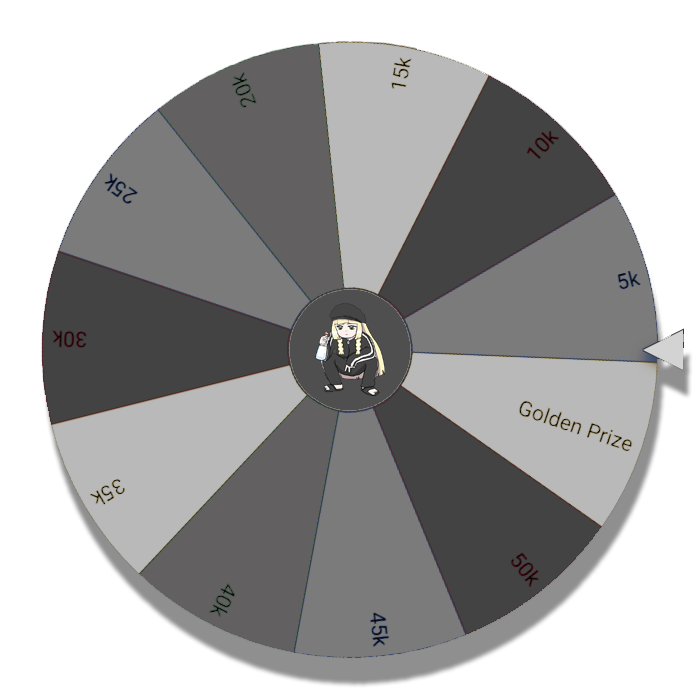
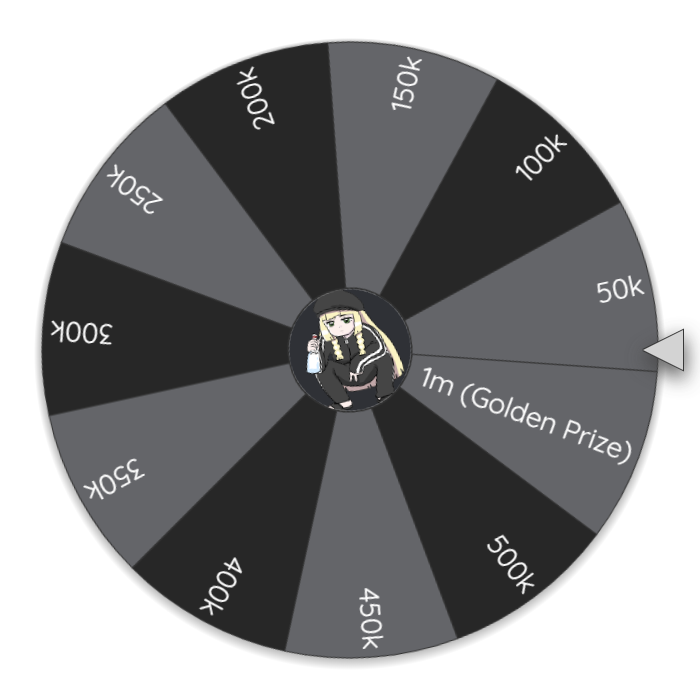
Updates

diff --git a/index.js b/index.js
@@ -1162,13 +1162,13 @@ bot.on("guildMemberUpdate", (oldMemberData, newMemberData) => {
                                             setTimeout(() => {
                                                 if(premiumSupporter)
                                                 {
-                                                    DatabaseFunctions.addUserTokens(newMemberData.user.id, 500000)
-                                                    newMemberData.user.send("Thank you for supporting Slav Bot! You have been given the ***" + roleName + "*** role and ***" + premiumRoleName + "***. Your name should be added on the *hall-of-gopniks* channel in Slav Support. If that is not the case, then please inform an Admin or the Owner on Slav Support. You have also been given 500k War Tokens for the World War and War Slave games and will receive this every week as long as you continue to be a patron.\n\nLeaving the support server means being unable to receive these benefits, you must join back to regain them.").catch(error => console.log("Send Error - " + error));
+                                                    DatabaseFunctions.addUserTokens(newMemberData.user.id, 5000000)
+                                                    newMemberData.user.send("Thank you for supporting Slav Bot! You have been given the ***" + roleName + "*** role and ***" + premiumRoleName + "***. Your name should be added on the *hall-of-gopniks* channel in Slav Support. If that is not the case, then please inform an Admin or the Owner on Slav Support. You have also been given 5 million War Tokens for the World War and War Slave games and will receive this every week as long as you continue to be a patron.\n\nLeaving the support server means being unable to receive these benefits, you must join back to regain them.").catch(error => console.log("Send Error - " + error));
                                                 }
                                                 else
                                                 {
-                                                    DatabaseFunctions.addUserTokens(newMemberData.user.id, 250000)
-                                                    newMemberData.user.send("Thank you for supporting Slav Bot! You have been given the ***" + roleName + "*** role. Your name should be added on the *hall-of-gopniks* channel in Slav Support. If that is not the case, then please inform an Admin or the Owner on Slav Support. You have also been given 250k War Tokens for the World War and War Slave games and will receive this every week as long as you continue to be a patron.\n\nLeaving the support server means being unable to receive these benefits, you must join back to regain them.").catch(error => console.log("Send Error - " + error));
+                                                    DatabaseFunctions.addUserTokens(newMemberData.user.id, 2500000)
+                                                    newMemberData.user.send("Thank you for supporting Slav Bot! You have been given the ***" + roleName + "*** role. Your name should be added on the *hall-of-gopniks* channel in Slav Support. If that is not the case, then please inform an Admin or the Owner on Slav Support. You have also been given 2.5 million War Tokens for the World War and War Slave games and will receive this every week as long as you continue to be a patron.\n\nLeaving the support server means being unable to receive these benefits, you must join back to regain them.").catch(error => console.log("Send Error - " + error));
                                                 }
                                             }, 500)
                                         }
@@ -1181,7 +1181,7 @@ bot.on("guildMemberUpdate", (oldMemberData, newMemberData) => {
                     }
                     else if(newPremiumSupporter && premiumSupporter)
                     {
-                        newMemberData.user.send("Thank you for upgrading! Your benefits for ***" + premiumRoleName + "*** tier have been added. You will now receive 500k war tokens every week.").catch(error => console.log("Send Error - " + error));
+                        newMemberData.user.send("Thank you for upgrading! Your benefits for ***" + premiumRoleName + "*** tier have been added. You will now receive 5 million war tokens every week.").catch(error => console.log("Send Error - " + error));
                     }
                 }
                 else if(newRoles[i].id == slavRole)
@@ -1238,9 +1238,9 @@ bot.on("guildMemberUpdate", (oldMemberData, newMemberData) => {
                                         }
                                         else
                                         {
-                                            DatabaseFunctions.addUserTokens(newMemberData.user.id, 100000)
+                                            DatabaseFunctions.addUserTokens(newMemberData.user.id, 1000000)
                                             setTimeout(() => {
-                                                newMemberData.user.send("Thank you for supporting Slav Bot! You have been given the ***" + roleName + "*** role. Your name should be added on the *hall-of-slavs* channel in Slav Support. You have also been given 100k War Tokens for the World War and War Slave games and will receive this every week as long as you continue to be a patron.\n\nLeaving the support server means being unable to receive these benefits, you must join back to regain them.").catch(error => console.log("Send Error - " + error));
+                                                newMemberData.user.send("Thank you for supporting Slav Bot! You have been given the ***" + roleName + "*** role. Your name should be added on the *hall-of-slavs* channel in Slav Support. You have also been given 1 million War Tokens for the World War and War Slave games and will receive this every week as long as you continue to be a patron.\n\nLeaving the support server means being unable to receive these benefits, you must join back to regain them.").catch(error => console.log("Send Error - " + error));
                                             }, 500)
                                         }
                                         
@@ -1265,7 +1265,7 @@ bot.on("guildMemberUpdate", (oldMemberData, newMemberData) => {
                     DatabaseFunctions.addUserTokens(newMemberData.user.id, 25000)
                     const roleName = newRoles[i].name
                     setTimeout(() => {
-                        newMemberData.user.send("Thank you for donation! You have been given the ***" + roleName + "*** role. You have been given 20k War Tokens.").catch(error => console.log("Send Error - " + error));
+                        newMemberData.user.send("Thank you for donation! You have been given the ***" + roleName + "*** role. You have been given 25k War Tokens.").catch(error => console.log("Send Error - " + error));
                     }, 500)
                 }
 
@@ -4013,25 +4013,25 @@ function paySupporters()
                             const today = new Date()
                             if(role.id == premiumRole)
                             {
-                                DatabaseFunctions.addUserTokens(member.id, 500000)
+                                DatabaseFunctions.addUserTokens(member.id, 5000000)
                                 setTimeout(() => {
-                                    member.send("You have been given your weekly payment of 500k War Tokens for the " + ordinalSuffix(today.getDate()) + " of " + monthNames[today.getMonth()] + " " + today.getFullYear() + ". Your next payment will be 7 days later. Thank you for supporting Slav Bot.").catch(error => console.log("Send Error - " + error));
+                                    member.send("You have been given your weekly payment of 5 million War Tokens for the " + ordinalSuffix(today.getDate()) + " of " + monthNames[today.getMonth()] + " " + today.getFullYear() + ". Your next payment will be 7 days later. Thank you for supporting Slav Bot.").catch(error => console.log("Send Error - " + error));
                                 }, 500)
                                 payed = true;
                             }
                             else if(role.id == gopnikRole)
                             {
-                                DatabaseFunctions.addUserTokens(member.id, 250000)
+                                DatabaseFunctions.addUserTokens(member.id, 2500000)
                                 setTimeout(() => {
-                                    member.send("You have been given your weekly payment of 250k War Tokens for the " + ordinalSuffix(today.getDate()) + " of " + monthNames[today.getMonth()] + " " + today.getFullYear() + ". Your next payment will be 7 days later. Thank you for supporting Slav Bot.").catch(error => console.log("Send Error - " + error));
+                                    member.send("You have been given your weekly payment of 2.5 million War Tokens for the " + ordinalSuffix(today.getDate()) + " of " + monthNames[today.getMonth()] + " " + today.getFullYear() + ". Your next payment will be 7 days later. Thank you for supporting Slav Bot.").catch(error => console.log("Send Error - " + error));
                                 }, 500)
                                 payed = true;
                             }
                             else if(role.id == slavRole)
                             {
-                                DatabaseFunctions.addUserTokens(member.id, 100000)
+                                DatabaseFunctions.addUserTokens(member.id, 1000000)
                                 setTimeout(() => {
-                                    member.send("You have been given your weekly payment of 100k War Tokens for the " + ordinalSuffix(today.getDate()) + " of " + monthNames[today.getMonth()] + " " + today.getFullYear() + ". Your next payment will be 7 days later. Thank you for supporting Slav Bot.").catch(error => console.log("Send Error - " + error));
+                                    member.send("You have been given your weekly payment of 1 million War Tokens for the " + ordinalSuffix(today.getDate()) + " of " + monthNames[today.getMonth()] + " " + today.getFullYear() + ". Your next payment will be 7 days later. Thank you for supporting Slav Bot.").catch(error => console.log("Send Error - " + error));
                                 }, 500)
                                 payed = true;
                             }

diff --git a/commands/games/dailyspin.js b/commands/games/dailyspin.js
@@ -138,49 +138,49 @@ class DailySpinCommand extends command.Command
                                             {
                                                 if(chance >= 0.975 && isPatron)
                                                 {
-                                                    prize = 75000
+                                                    prize = 1000000
                                                     goldenPrize = true;
                                                 }
                                                 else
                                                 {
-                                                    prize = 50000
+                                                    prize = 500000
                                                 }
                                             }
                                             else if(chance >= 0.925)
                                             {
-                                                prize = 45000
+                                                prize = 450000
                                             }
                                             else if(chance >= 0.875)
                                             {
-                                                prize = 40000
+                                                prize = 400000
                                             }
                                             else if(chance >= 0.85)
                                             {
-                                                prize = 35000
+                                                prize = 350000
                                             }
                                             else if(chance >= 0.825)
                                             {
-                                                prize = 30000
+                                                prize = 300000
                                             }
                                             else if(chance >= 0.8)
                                             {
-                                                prize = 25000
+                                                prize = 250000
                                             }
                                             else if(chance >= 0.775)
                                             {
-                                                prize = 20000
+                                                prize = 200000
                                             }
                                             else if(chance >= 0.6)
                                             {
-                                                prize = 15000
+                                                prize = 150000
                                             }
                                             else if(chance >= 0.2)
                                             {
-                                                prize = 10000
+                                                prize = 100000
                                             }
                                             else 
                                             {
-                                                prize = 5000
+                                                prize = 50000
                                             }
             
                                             IndexRef.addTokens(message.author.id, prize)
@@ -230,49 +230,49 @@ class DailySpinCommand extends command.Command
                                             {
                                                 if(chance >= 0.975 && isPatron)
                                                 {
-                                                    prize = 75000
+                                                    prize = 1000000
                                                     goldenPrize = true;
                                                 }
                                                 else
                                                 {
-                                                    prize = 50000
+                                                    prize = 500000
                                                 }
                                             }
                                             else if(chance >= 0.925)
                                             {
-                                                prize = 45000
+                                                prize = 450000
                                             }
                                             else if(chance >= 0.875)
                                             {
-                                                prize = 40000
+                                                prize = 400000
                                             }
                                             else if(chance >= 0.85)
                                             {
-                                                prize = 35000
+                                                prize = 350000
                                             }
                                             else if(chance >= 0.825)
                                             {
-                                                prize = 30000
+                                                prize = 300000
                                             }
                                             else if(chance >= 0.8)
                                             {
-                                                prize = 25000
+                                                prize = 250000
                                             }
                                             else if(chance >= 0.775)
                                             {
-                                                prize = 20000
+                                                prize = 200000
                                             }
                                             else if(chance >= 0.6)
                                             {
-                                                prize = 15000
+                                                prize = 150000
                                             }
                                             else if(chance >= 0.2)
                                             {
-                                                prize = 10000
+                                                prize = 100000
                                             }
                                             else 
                                             {
-                                                prize = 5000
+                                                prize = 50000
                                             }
             
                                             IndexRef.addTokens(message.author.id, prize)

diff --git a/commands/games/warslave.js b/commands/games/warslave.js
@@ -1077,10 +1077,11 @@ class WarSlaveCommand extends command.Command
                                                 }
                                                 else
                                                 {                                                
-                                                    message.channel.send("<@" + message.author.id + "> has stolen <@" + userID + "> from <@" + slaves[i].users[slaveIndex].owner + ">", {embed: {title: "***Successfully Stole Slave***", description: "<@" + message.author.id + "> You have stolen <@" + userID + "> from <@" + slaves[i].users[slaveIndex].owner + "> for " + numberWithCommas(value) + " tokens (x100 the slave's price). You now have " + numberWithCommas(IndexRef.getTokens(message.author.id)) + " tokens. <@" + userID + "> now has a 2 hour cooldown until someone can steal them again.", color: 16711680, timestamp: timestamp, footer: {icon_url: message.client.user.avatarURL,text: "Sent on"}}}).catch(error => console.log("Send Error - " + error));
+                                                    message.channel.send("<@" + message.author.id + "> has stolen <@" + userID + "> from <@" + slaves[i].users[slaveIndex].owner + ">", {embed: {title: "***Successfully Stole Slave***", description: "<@" + message.author.id + "> You have stolen <@" + userID + "> from <@" + slaves[i].users[slaveIndex].owner + "> for " + numberWithCommas(value) + " tokens (x100 the slave's price). You now have " + numberWithCommas(IndexRef.getTokens(message.author.id)) + " tokens. <@" + userID + "> now has a 2 hour cooldown until someone can steal them again.\n\n<@" + userID + "> is now worth " + numberWithCommas(value) + " tokens." , color: 16711680, timestamp: timestamp, footer: {icon_url: message.client.user.avatarURL,text: "Sent on"}}}).catch(error => console.log("Send Error - " + error));
                                                     
                                                     slaves[i].users[slaveIndex].owner = message.author.id;
                                                     slaves[i].users[slaveIndex].cooldown = (new Date((new Date).getTime() + 7200000)).toJSON()
+                                                    slaves[i].users[slaveIndex].price = value
                                                 }
                                             }
                                             else
@@ -1170,9 +1171,10 @@ class WarSlaveCommand extends command.Command
                                         if(slaves[i].users[slaveIndex].owner == message.author.id)
                                         {
                                             IndexRef.addTokens(message.author.id, slaves[i].users[slaveIndex].price)
-                                            message.channel.send("", {embed: {title: "***Successfully Sold Slave***", description: "<@" + message.author.id + "> You have sold <@" + userID + "> for " + numberWithCommas(slaves[i].users[slaveIndex].price) + " tokens. You now have " + numberWithCommas(IndexRef.getTokens(message.author.id)) + " tokens.", color: 16711680, timestamp: timestamp, footer: {icon_url: message.client.user.avatarURL,text: "Sent on"}}}).catch(error => console.log("Send Error - " + error));
+                                            message.channel.send("", {embed: {title: "***Successfully Sold Slave***", description: "<@" + message.author.id + "> You have sold <@" + userID + "> for " + numberWithCommas(slaves[i].users[slaveIndex].price) + " tokens. You now have " + numberWithCommas(IndexRef.getTokens(message.author.id)) + " tokens.\n\nSelling you slaves removes all their cooldown effects.", color: 16711680, timestamp: timestamp, footer: {icon_url: message.client.user.avatarURL,text: "Sent on"}}}).catch(error => console.log("Send Error - " + error));
                                             slaves[i].users[slaveIndex].owner = ""
                                             slaves[i].users[slaveIndex].price = slaves[i].users[slaveIndex].price + 500;
+                                            slaves[i].users[slaveIndex].cooldown = (new Date()).toJSON()
                                         }
                                         else
                                         {
